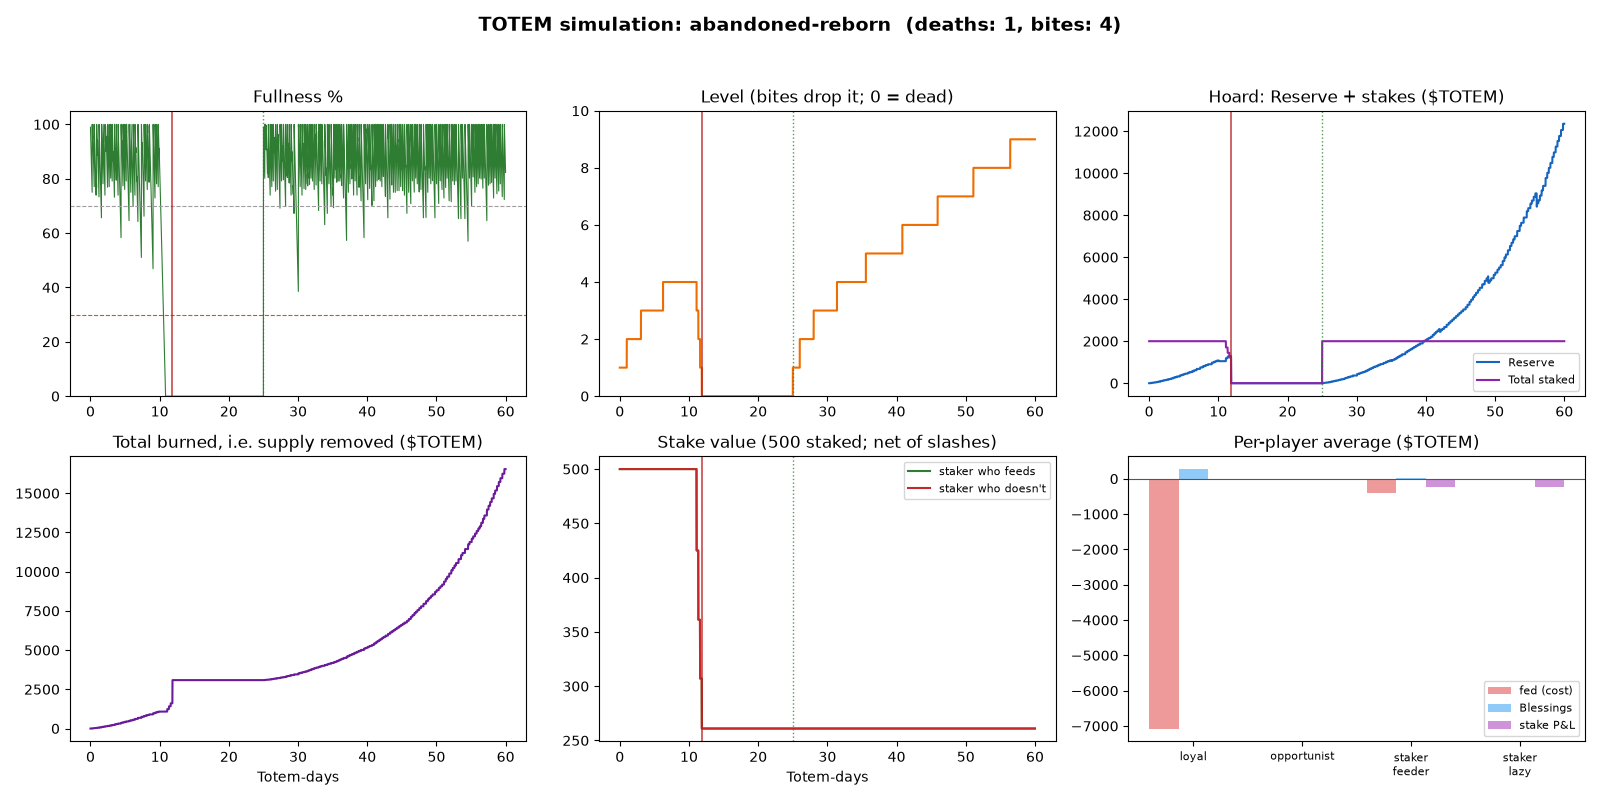
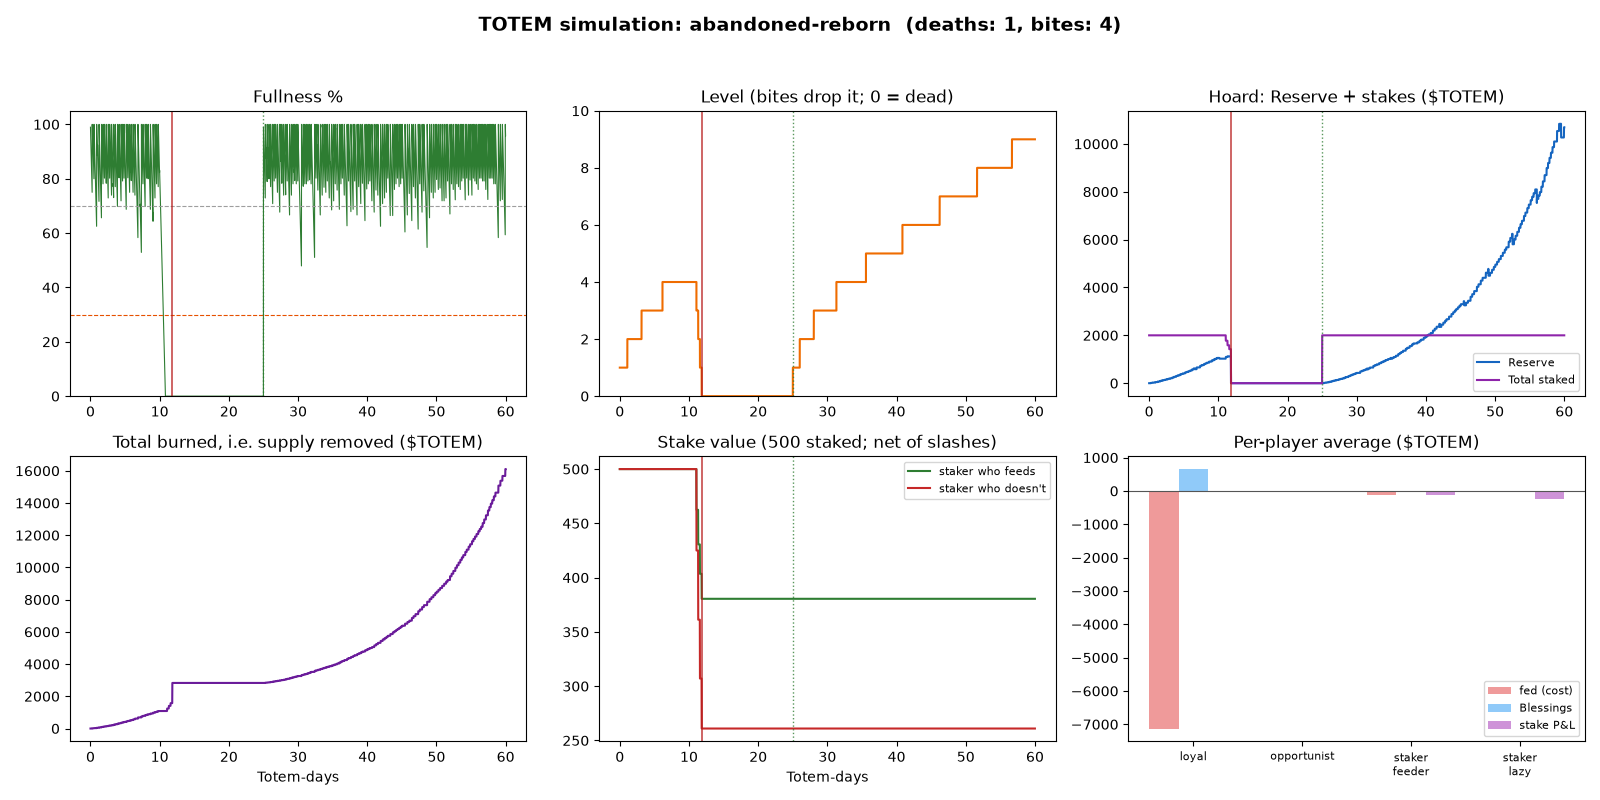
tune: Blessings every 3.5 days, shield = feed 5 for 2 days
The simulation showed caretakers got only ~8% of their spend back and
that a daily 10-token shield snack cost small stakers more than the
slashes it saved. With these values all 14 sim checks pass.

Applied to Config::defaults, the sim, tests, RULES, README, brief, STATUS.

diff --git a/contract/src/tests.rs b/contract/src/tests.rs
@@ -284,9 +284,11 @@ fn feeding_ends_rampage_but_lost_levels_stay_lost() {
 // staking and shields
 // ---------------------------------------------------------------------- //
 
-/// L3 Totem with bob and carol staking 500 each, bob shielded by a feed at
-/// `last + 0.4d`. Returns (contract, genesis, bob, carol, rampage start).
-fn staked_l3() -> (Contract, AccountId, AccountId, AccountId, u64) {
+/// L3 Totem with bob and carol staking 500 each. Bob is shielded by a feed
+/// at `last + 0.4d` (covers both bites), or with `early` at `last - 0.6d`
+/// (the 2-day shield then ends between the first and second bite).
+/// Returns (contract, genesis, bob, carol, rampage start).
+fn staked_l3_with(early: bool) -> (Contract, AccountId, AccountId, AccountId, u64) {
     let (mut c, genesis, _dao) = setup();
     let bob = accounts(2);
     let carol = accounts(3);
@@ -296,13 +298,26 @@ fn staked_l3() -> (Contract, AccountId, AccountId, AccountId, u64) {
     c.stake(U128(500 * ONE));
     set_ctx(&carol, 0);
     c.stake(U128(500 * ONE));
-    let last = keep_happy(&mut c, &genesis, DAY / 4, 3 * DAY);
+    let last = if early {
+        keep_happy(&mut c, &genesis, DAY / 4, DAY * 9 / 4);
+        set_ctx(&bob, DAY * 12 / 5);
+        c.feed(U128(5 * ONE));
+        keep_happy(&mut c, &genesis, DAY * 5 / 2, 3 * DAY)
+    } else {
+        let last = keep_happy(&mut c, &genesis, DAY / 4, 3 * DAY);
+        set_ctx(&bob, last + DAY * 2 / 5);
+        c.feed(U128(5 * ONE));
+        last
+    };
     assert_eq!(c.level, 3);
-    let f = last + DAY * 2 / 5;
-    set_ctx(&bob, f);
-    c.feed(U128(10 * ONE));
-    let z = f + c.get_totem().seconds_until_rampage.unwrap().0 * 1_000_000_000;
+    let now = c.last_settled_at;
+    let z = now + c.get_totem().seconds_until_rampage.unwrap().0 * 1_000_000_000;
+    let _ = last;
     (c, genesis, bob, carol, z)
+}
+
+fn staked_l3() -> (Contract, AccountId, AccountId, AccountId, u64) {
+    staked_l3_with(false)
 }
 
 #[test]
@@ -329,7 +344,7 @@ fn shielded_staker_keeps_everything_unshielded_loses_slash() {
 
 #[test]
 fn shield_expiring_between_bites_is_slashed_by_the_second_only() {
-    let (mut c, genesis, bob, carol, _z) = staked_l3();
+    let (mut c, genesis, bob, carol, _z) = staked_l3_with(true);
     let b1 = next_bite_at(&c, c.last_settled_at);
     set_ctx(&genesis, b1);
     c.poke();

diff --git a/sim/simulate.py b/sim/simulate.py
@@ -9,9 +9,9 @@ contract's rules (contract/src, TOTEM_BRIEF.md sections 5-6, RULES.md):
   - At 0% the Totem bites every 1/4 day: burns 15% of the Reserve, slashes 15%
     of every UNSHIELDED stake into the Reserve, and drops one level. A bite at
     Level 1 kills it. Feeding ends the Rampage; lost levels stay lost.
-  - Staking: a feed of >= 10 $TOTEM shields the feeder's stake for 1 day.
+  - Staking: a feed of >= 5 $TOTEM shields the feeder's stake for 2 days.
     Stakers with >= 100 staked earn x1.5 points.
-  - Blessings: from L3, every 7 days the contract reserves rate x Reserve and
+  - Blessings: from L3, every 3.5 days the contract reserves rate x Reserve and
     splits it by points earned in that period (only while the level is >= 3).
   - Generations: after a death the DAO hatches a new Level-1 egg (no economic
     carry-over); stakes from the dead generation are released.
@@ -60,9 +60,9 @@ class Config:
     stake_slash: float = 0.15
     min_stake: float = 100.0
     staker_multiplier: float = 1.5
-    shield_min_feed: float = 10.0
-    shield_window: float = 1.0
-    blessing_period: float = 7.0
+    shield_min_feed: float = 5.0
+    shield_window: float = 2.0
+    blessing_period: float = 3.5
     blessing_rate_egg: float = 0.05
     blessing_rate_dragon: float = 0.08
     blessing_rate_golem: float = 0.03
@@ -138,7 +138,7 @@ class Player:
         if a == "whale":
             return need if fullness < 0.60 else 0.0
         if a == "staker_feeder":
-            # the minimum the shield rule asks for: a 10-token snack before the
+            # the minimum the shield rule asks for: a 5-token snack before the
             # shield runs out (it barely moves the belly of a grown Totem)
             if self.shield_until < t + 0.3:
                 return min(need, CFG.shield_min_feed)

diff --git a/contract/src/config.rs b/contract/src/config.rs
@@ -113,12 +113,12 @@ impl Config {
             staker_points_num: 3,
             staker_points_den: 2,
             keeper_stake: U128(1_000 * ONE_TOKEN),
-            shield_min_feed: U128(10 * ONE_TOKEN),
-            shield_window_ns: day_ns,
+            shield_min_feed: U128(5 * ONE_TOKEN),
+            shield_window_ns: 2 * day_ns,
             unbond_delay_ns: day_ns * 3 / 2,
             bucket_len_ns: day_ns / 24,
             trait_counts: vec![8, 6, 6, 4],
-            blessing_period_ns: 7 * day_ns,
+            blessing_period_ns: day_ns * 7 / 2,
             blessing_rate_egg_bp: 500,
             blessing_rate_dragon_bp: 800,
             blessing_rate_golem_bp: 300,

diff --git a/TOTEM_BRIEF.md b/TOTEM_BRIEF.md
@@ -105,7 +105,7 @@ The counts come from `GET https://nearhackathon.com/api/projects?page=N&track=ID
   - It **slashes the stake of every staker who hasn't fed it recently.**
   - It **drops one level.**
   - **At Level 0 it dies.** A big, well-raised Totem survives several bites, while a newborn dies at the first one.
-- **A well-fed Totem grows.** It levels up, evolves, mints badges for its caretakers and, from Level 3, pays weekly **Blessings** from the Hoard to the people who fed it.
+- **A well-fed Totem grows.** It levels up, evolves, mints badges for its caretakers and, from Level 3, pays twice-weekly **Blessings** from the Hoard to the people who fed it.
 - **Holders can stake $TOTEM into the Totem's belly.** Stakers earn more from Blessings and become the tribe's voting Keepers. Their stake is at risk if the Totem starves while they weren't feeding it, so **freeloaders take the hit and recent feeders are shielded.**
 - **Death is a story beat, not a game over.** A dead Totem becomes a **gravestone NFT** in a growing **lineage**. The next egg inherits cosmetic traits from the previous generation's top feeders: "Grumbo III, child of Grumbo II, who starved on day 23."
 - **The tribe's Sputnik DAO owns the Totem.** The DAO can name it, choose its evolution and hatch the next generation. It **cannot** touch the Hoard or change any rule.
@@ -120,7 +120,7 @@ The core tension is the tragedy of the commons (everyone hopes someone else pays
 - **Day 1, evening.** It's at 70%. Priya feeds it and earns Caretaker Points.
 - **Day 2, 3 a.m.** It's at 25%, which is Starving. The bot posts: "⚠ TOTEM IS STARVING (25%). In 6h it starts eating the Hoard."
 - **Day 2, 4 a.m.** Arjun does a **rescue feed** and gets **2× points**.
-- **Days 3–5.** It stays Happy and reaches **Level 3**, which unlocks weekly Blessings.
+- **Days 3–5.** It stays Happy and reaches **Level 3**, which unlocks Blessings (paid every 3.5 days).
 - **Day 6.** The weekend: nobody pays attention, the bar hits 0% and **Rampage** begins. Six hours later comes the first **bite**:
   - 15% of the Hoard burns.
   - The Totem drops to **Level 2**.
@@ -187,7 +187,7 @@ Every rule below is enforced **in the contract**. No backend is needed for corre
 | 🗿 Golem | ×0.8 | 3% |
 
 ### 5.6 Blessings (Level 3 and up)
-- Time is split into **Blessing periods of 7 Totem days**, starting from the moment the Totem reached L3.
+- Time is split into **Blessing periods of 3.5 Totem days** (tuned down from 7 by the simulation), starting from the moment the Totem reached L3.
 - When a period ends (the next `settle` after its end), the contract reserves **rate × Reserve** (the Totem-owned part of the Hoard; stakes are never paid out as Blessings) for that period and records the period's total points.
 - Each account claims its share with `claim_blessing(period_id)`: `reserved × your_points_in_period / total_points_in_period`. Claims are **pull-based**, so the contract never loops over users.
 - Points used for Blessings are the points earned **within that period**. Lifetime points are tracked separately for badges.
@@ -241,7 +241,7 @@ The **Hoard** shown in the UI is two parts:
   2. **Keeper status:** stakers with ≥ `keeper_stake` can be added to the DAO's **Keepers** role and vote on name, evolution and hatching (9.3).
   3. **Bragging rights:** a bigger visible "belly."
 - **The risk:** when the Totem bites, every *unshielded* stake loses `stake_slash`. Being a staker means having skin in the game. You can't hold a stake and ignore the Totem.
-- **Shield:** a feed of at least `shield_min_feed` (10 $TOTEM) shields **all of that feeder's stake** from every bite during the next `shield_window` (1 Totem day). Each new qualifying feed extends the shield to `now + shield_window`.
+- **Shield:** a feed of at least `shield_min_feed` (5 $TOTEM) shields **all of that feeder's stake** from every bite during the next `shield_window` (2 Totem days). Each new qualifying feed extends the shield to `now + shield_window`.
 - **Unstaking:** `unstake(amount)` starts an `unbond_delay` (1.5 Totem days, longer than one full hunger cycle). The unbonding amount **can still be slashed** if unshielded, so nobody can dodge a bite by exiting at the last moment. After the delay, `withdraw()` returns it. After a death, all stakes (including unbonding) are withdrawable at once.
 - **Staking is optional.** Feeding alone still earns points, badges and Blessings.
 
@@ -297,12 +297,12 @@ These are **starting values**. Tune them with the 60-day simulation (12.3) befor
 | `min_stake` | 100 $TOTEM | For the ×1.5 staker point bonus |
 | `staker_points_multiplier` | 1.5× | Stacks with the rescue 2× |
 | `keeper_stake` | 1,000 $TOTEM | Eligibility for the DAO Keepers role |
-| `shield_min_feed` | 10 $TOTEM | |
-| `shield_window` | 1 day | |
+| `shield_min_feed` | 5 $TOTEM | Tuned from 10 by the simulation |
+| `shield_window` | 2 days | Tuned from 1 day: a 500-token staker who feeds now beats one who doesn't |
 | `unbond_delay` | 1.5 days | Longer than one full hunger cycle |
 | `bucket_len` | 1/24 day | Granularity of shield expiries |
 | `traits` | palette 8, pattern 6, marking 6, crest 4 | Cosmetic only |
-| `blessing_period` | 7 days | |
+| `blessing_period` | 3.5 days | Tuned from 7: caretakers get ~12% of spend back instead of ~8% |
 | `blessing_rate` | 5% (egg), 8% (Dragon), 3% (Golem), +1 pt per level from L5, max +5 | |
 | `unclaimed_return_after` | 2 periods | |
 | `evolution_deadline` | 1 day after L4, else Golem | |
@@ -490,7 +490,7 @@ Provide a script, `scripts/dao-propose.ts`, that creates each proposal and votes
    - **Feed buttons** (10, 50, or "fill it up", which computes the exact amount needed).
    - A **Poke** button, shown during Rampage, displaying the tip you'd earn.
    - The panda's colours come from the Totem's **traits**; its pose and face from mood/form.
-2. **Belly (staking):** stake, unstake, withdraw. Shows your current stake value, a **shield status** ("🛡 Shielded for 14h" or "⚠ Unshielded: feed 10 to protect your stake") and unbonding countdown.
+2. **Belly (staking):** stake, unstake, withdraw. Shows your current stake value, a **shield status** ("🛡 Shielded for 14h" or "⚠ Unshielded: feed 5 to protect your stake") and unbonding countdown.
 3. **Caretakers:** the leaderboard (this period and lifetime), your points, claimable Blessings with claim buttons, and badge status with a claim button.
 4. **History:** a feed of events (feeds, rescues, bites with amounts burned and slashed, level changes, evolutions, Blessings, deaths, hatches), each linking to the testnet explorer.
 5. **Lineage:** the family tree. Each generation is a card with its gravestone (or the living Totem), traits, founders, lifespan, max level and cause of death.
@@ -510,7 +510,7 @@ Provide a script, `scripts/dao-propose.ts`, that creates each proposal and votes
 **It posts on state changes:**
 - `⚠ TOTEM IS STARVING (25%) — Level 3 Golem. Starts eating the Hoard (8,400 $TOTEM) in 5h 12m. [🍖 Feed] [📊 Status]`
 - `🔥 BITE! Grumbo ate 1,260 $TOTEM from the Reserve and slashed 3,400 from 6 unshielded stakers. Down to Level 2: 2 bites until death. Next bite in 6h.`
-- `🛡 Stakers: feed at least 10 $TOTEM to shield your stake from the next bite.`
+- `🛡 Stakers: feed at least 5 $TOTEM to shield your stake from the next bite.`
 - `🦸 arjun.testnet saved the Totem! +2× points, Hero Badge minted.`
 - `⬆ Level 4! The Keepers must choose: 🐉 Dragon or 🗿 Golem. Vote in the DAO.`
 - `✨ Blessing #2: 1,250 $TOTEM ready for 14 caretakers. [Claim]`

diff --git a/STATUS.md b/STATUS.md
@@ -8,7 +8,7 @@ Where the build stands and what is left. Read this after [`TOTEM_BRIEF.md`](TOTE
 |---|---|---|
 | Contract core | NEP-141 $TOTEM + NEP-145 storage, feed (50% burn / 50% Reserve), lazy `settle`, moods, levels, evolution, Blessings, badge tiers (records + events), demo faucet | [`contract/src/`](contract/src/) |
 | New bite rules | Bite every ¼ Totem-day: burn 15% of the Reserve, slash 15% of unshielded stakes into it, −1 level; death at Level 0; poke tip = 1% of the burn | [`game.rs`](contract/src/game.rs) |
-| Staking with shields | `stake` / `unstake` (1.5-day unbonding, still slashable) / `withdraw`; feed ≥ 10 shields for 1 day; ×1.5 staker points; bounded-gas aggregate with shield buckets | [`staking.rs`](contract/src/staking.rs) |
+| Staking with shields | `stake` / `unstake` (1.5-day unbonding, still slashable) / `withdraw`; feed ≥ 5 shields for 2 days; ×1.5 staker points; bounded-gas aggregate with shield buckets | [`staking.rs`](contract/src/staking.rs) |
 | Lineage | Gravestone life record on death, traits from `sha256(top-3 feeders ‖ generation)`, Founders, `get_lineage` / `get_graveyard` | [`lineage.rs`](contract/src/lineage.rs) |
 | Views | `get_totem` projects unsettled bites; `get_stake`, `get_config`, `get_stats`, `get_caretaker`, `get_period`, `get_blessing_share` | [`views.rs`](contract/src/views.rs) |
 | Contract tests | 17 unit tests: feeding, bites and level loss, newborn death, shields, shield expiring between bites, many-staker invariant, unbonding, lineage/hatch, sybil split | [`tests.rs`](contract/src/tests.rs) |
@@ -27,19 +27,20 @@ cd web && npm install && npm run dev  # http://localhost:5173
 - Blessings use the level at settle time when a period closes (a small approximation; documented in the code).
 - Commits go out as `xaviersharwin10` / `Raksha001` only, with no AI co-author trailers.
 
-## Parameter questions (from the simulation, need a team decision)
+## Parameter decisions (from the simulation, 2026-11-11)
 
-Parameters are fixed at `new()` and the brief says a human approves them before the final deploy (section 14, checkpoint 1). Current findings:
+The simulation flagged two weak spots; both are now fixed in `Config::defaults` (contract), the sim, RULES.md, README and the brief. All 14 sim checks pass.
 
-1. **Blessings feel small:** loyal caretakers get back ~4–9% of what they feed as Blessings (target was ≥ 10%). Options: raise the Blessing rates (egg 5% → 8%?), or shorten the period to 3–4 days so payouts come sooner.
-2. **The shield snack isn't worth it for small stakers:** at 500 staked, a daily 10-token snack costs more than the 15% slashes it prevents. Options: keep it (small stakers just feed the Totem properly), lower `shield_min_feed` to 5, or make the shield last 2 days.
-3. Everything else behaves as designed: healthy survives, grown Totems survive a weekend gap with level loss, neglect kills, generations hatch, lazy stakers lose money when it bites.
+1. **Blessing period 7 → 3.5 Totem-days.** Same rates, paid twice as often: loyal caretakers get ~12% of their spend back (was ~8%), and the demo shows a Blessing every 7 minutes instead of 14.
+2. **Shield: feed ≥ 5 (was 10), lasts 2 days (was 1).** At 10/day a 500-token staker paid more in snacks than the slashes it saved; now feeding stakers end ahead of lazy ones.
+
+Parameters are immutable after `new()`, so re-run `sim/simulate.py` before any further change and before the final deploy.
 
 ## Remaining (in priority order)
 
 The brief's cut order still applies if time runs out (section 16): cut the bot first, then Keepers sync. **Never cut** feeding, bites with level loss, death, gravestone and lineage, Blessings, or the tests.
 
-- [x] **1. Simulation:** [`sim/simulate.py`](sim/simulate.py) and `sim/out/` now use the new rules (5 scenarios, 12/14 checks pass). Two open tuning questions for the team, see "Parameter questions" below.
+- [x] **1. Simulation:** [`sim/simulate.py`](sim/simulate.py) and `sim/out/` now use the new rules (5 scenarios, 14/14 checks pass). Two parameters were tuned from it, see "Parameter decisions" below.
 - [ ] **2. NFTs (NEP-171):** the Totem as a real NFT owned by the DAO that converts to a gravestone at death; soulbound Bronze / Silver / Gold, Hero and Founder badges (`nft_transfer` on a badge panics).
 - [ ] **3. Remaining contract tests (brief 8.5):** Blessings stop below L3, zero-point period, Totem NFT transfer mid-period, evolution deadline → Golem, non-owner `rename` / `choose_evolution` panic, storage deposits, claiming old Blessings after a death.
 - [ ] **4. Integration tests:** `near-workspaces` sandbox tests with block fast-forward (brief 12.1).
@@ -48,7 +49,7 @@ The brief's cut order still applies if time runs out (section 16): cut the bot f
 - [ ] **7. Keepers:** DAO role + `scripts/keepers-sync.ts` (≥ 1,000 staked or Silver badge).
 - [ ] **8. Demo script:** `scripts/demo.ts`, one full life on testnet with a labelled log and explorer links, plus `--fast` (brief 12.2).
 - [ ] **9. Web ↔ contract:** NEAR Wallet Selector (testnet), read `get_totem` / `get_stake` / `get_lineage`, sign `feed`, `poke`, `faucet`; keep the 3D farm as the front end and replace `engine.ts` calls.
-- [ ] **10. Web staking UI:** stake, unstake, withdraw, shield status ("🛡 Shielded for 14h" / "⚠ feed 10 to protect your stake"), unbonding countdown.
+- [ ] **10. Web staking UI:** stake, unstake, withdraw, shield status ("🛡 Shielded for 14h" / "⚠ feed 5 to protect your stake"), unbonding countdown.
 - [ ] **11. Other web screens:** claim Blessings and badges, lineage tree from `get_lineage`, rules from `get_config`, history with explorer links, faucet button.
 - [ ] **12. Hosting:** Vercel or GitHub Pages; keep it up until at least Nov 18 (ideally Nov 25).
 - [ ] **13. Telegram bot:** grammY alerts (brief section 11). First to cut.

diff --git a/README.md b/README.md
@@ -39,10 +39,10 @@ Most memecoins have no mechanic and most community treasuries have no reason to 
 | Rampage bite | every ¼ Totem-day at 0%: burn 15% of the Reserve, slash 15% of unshielded stakes into it, −1 level |
 | Death | when a bite takes it to Level 0 (a newborn L1 dies at its first bite) |
 | Poke tip | 1% of the Reserve burned by the bites a `poke()` settles |
-| Staking | ×1.5 points while ≥ 100 staked; a feed ≥ 10 shields your stake for 1 day; 1.5-day unbonding, still slashable |
+| Staking | ×1.5 points while ≥ 100 staked; a feed ≥ 5 shields your stake for 2 days; 1.5-day unbonding, still slashable |
 | Lineage | gravestone life record on death; next egg's cosmetic traits from the top 3 feeders, who become its Founders |
 | Levels | L2/L3/L4/L5 at 1/3/6/10 Happy-days, then +5 each |
-| Blessings | 7-day periods from L3; `rate × Reserve` split pro-rata by points |
+| Blessings | 3.5-day periods from L3; `rate × Reserve` split pro-rata by points |
 | Badges | Bronze/Silver/Gold at 100/1,000/10,000 lifetime points (soulbound) |
 | Supply | 1,000,000,000 $TOTEM, 18 decimals, minted once at init |
 
@@ -114,17 +114,17 @@ The unit tests (`contract/src/tests.rs`) exercise the mechanic end to end:
 
 ### What the simulation shows
 
-[`sim/simulate.py`](sim/simulate.py) is an agent-based model of 60 Totem-days using the contract's rules (bites drop levels, staking with shields, Blessings per period, generations). Players: loyal caretakers, rescue-only opportunists, a whale, freeloaders, stakers who keep their shield up with 10-token snacks, and stakers who never feed. One chart per scenario in [`sim/out/`](sim/out/):
+[`sim/simulate.py`](sim/simulate.py) is an agent-based model of 60 Totem-days using the contract's rules (bites drop levels, staking with shields, Blessings per period, generations). Players: loyal caretakers, rescue-only opportunists, a whale, freeloaders, stakers who keep their shield up with 5-token snacks, and stakers who never feed. One chart per scenario in [`sim/out/`](sim/out/):
 
 | Scenario | Result |
 |---|---|
 | `healthy` | Survives 60 days, no bites, reaches L14 |
-| `weekend-gaps` | The tribe forgets it at weekends: a grown Totem takes 4 bites (L10 → L6) and survives. Stakers who fed keep most of their stake; stakers who didn't lose ~half |
-| `apathetic` | Barely kept alive; 4 bites, lazy stakers lose ~half their stake |
+| `weekend-gaps` | The tribe forgets it at weekends: 7 bites over 60 days (its worst weekend takes it L7 → L3) and it survives. Stakers who fed keep ~450 of 500; stakers who didn't end at ~160 |
+| `apathetic` | Barely kept alive; 6 bites, lazy stakers lose ~60% of their stake |
 | `whale-carried` | One whale keeps it alive; lazy stakers still get slashed |
 | `abandoned-reborn` | Fed 10 days, abandoned: it bites its way down from L4 and dies; the tribe returns, Generation 2 hatches and grows to L9 |
 
-12 of 14 checks pass. The two warnings are honest tuning questions: loyal caretakers get ~4–9% of their spend back as Blessings (below a 10% target), and at a 500 stake the daily 10-token shield snack costs more than the slashes it saves (bigger stakes come out ahead).
+All 14 checks pass. Two parameters were tuned from this model: Blessing periods went from 7 to 3.5 days (caretakers now get ~12% of their spend back in the healthy scenario instead of ~8%), and the shield went from "feed 10, protected 1 day" to "feed 5, protected 2 days" (so a 500-token staker who feeds now ends ahead of one who doesn't).
 
 ## Status (honest)
 

diff --git a/RULES.md b/RULES.md
@@ -31,7 +31,7 @@ readable on-chain via `get_config()`. There is no admin key and no owner overrid
 | Points | 1 per whole token accepted |
 | Rescue multiplier | ×2 when fullness < 30% at the moment of feeding |
 | Staker multiplier | ×1.5 while you have ≥ 100 $TOTEM staked (stacks with rescue) |
-| Shield | a feed of ≥ 10 $TOTEM shields your stake from bites for 1 Totem-day |
+| Shield | a feed of ≥ 5 $TOTEM shields your stake from bites for 2 Totem-days |
 | Overfeed | only the amount that fits is debited |
 
 ## Moods
@@ -80,7 +80,7 @@ So a Totem survives as many bites as its level: a newborn (L1) dies at its first
 |---|---|
 | Staker bonus | feed points ×1.5 while staked ≥ 100 $TOTEM |
 | Keeper eligibility | ≥ 1,000 $TOTEM staked (for the DAO Keepers role) |
-| Shield | a feed of ≥ 10 $TOTEM protects **all** your stake from bites for 1 Totem-day (rounded up to the hour) |
+| Shield | a feed of ≥ 5 $TOTEM protects **all** your stake from bites for 2 Totem-days (rounded up to the hour) |
 | Unbonding | `unstake` → 1.5 Totem-days → `withdraw`. Unbonding stake **can still be slashed** |
 | After a death | every stake is released and withdrawable at once |
 
@@ -107,7 +107,7 @@ The Totem NFT owner (the DAO) chooses within 1 Totem-day of reaching L4; otherwi
 
 | Parameter | Value |
 |---|---|
-| Period length | 7 Totem-days (from the moment L3 is reached) |
+| Period length | 3.5 Totem-days (from the moment L3 is reached) |
 | Reserved per period | `rate × Reserve`, pro-rata by points earned that period (only while L3+) |
 | Claim | pull-based (`claim_blessing(period_id)`) |
 | Unclaimed | returns to the Reserve 2 periods later |
